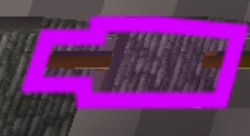
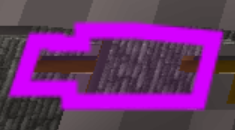
Adds new top half game region to common

diff --git a/RunescapeScripts/Common.py b/RunescapeScripts/Common.py
@@ -13,6 +13,7 @@ from win32api import GetSystemMetrics
 All_game_screen_region = None
 Bottom_right_game_screen_region = None
 Top_half_game_screen_region = None
+Bottom_half_game_screen_region = None
 
 Minimap_region = None
 Inventory_region = None
@@ -33,6 +34,7 @@ def set_regions():
     global All_game_screen_region
     global Bottom_right_game_screen_region
     global Top_half_game_screen_region
+    global Bottom_half_game_screen_region
 
     global Minimap_region
     global Inventory_region
@@ -47,6 +49,7 @@ def set_regions():
         All_game_screen_region = (9, 47, 2926, 1882)
         Bottom_right_game_screen_region = (1354, 1048, 1048, 788)
         Top_half_game_screen_region = (3, 41, 2932, 1078)
+        Bottom_half_game_screen_region = (0, 716, 2403, 799)
 
         Minimap_region = (2363, 74, 570, 418)
         Inventory_region = (2262, 1079, 671, 758)

diff --git a/RunescapeScripts/Skilling/CraftingGoldBraceletsEdgeville.py b/RunescapeScripts/Skilling/CraftingGoldBraceletsEdgeville.py
@@ -95,7 +95,7 @@ try:
                                  Common.Bank_region)
         # Click bank from furnace
         Common.watch_click_image(bank_furnace_images, 0.7, 'Click bank from furnace', False, 5, 10, bank_close_images,
-                                 Common.Top_half_game_screen_region)
+                                 Common.Bottom_half_game_screen_region)
         # Deposit gold bracelets
         Common.watch_click_image(gold_bracelet_images, 0.7, 'Click gold bar in inventory', False, 0, 10, None,
                                  Common.Inventory_region)
